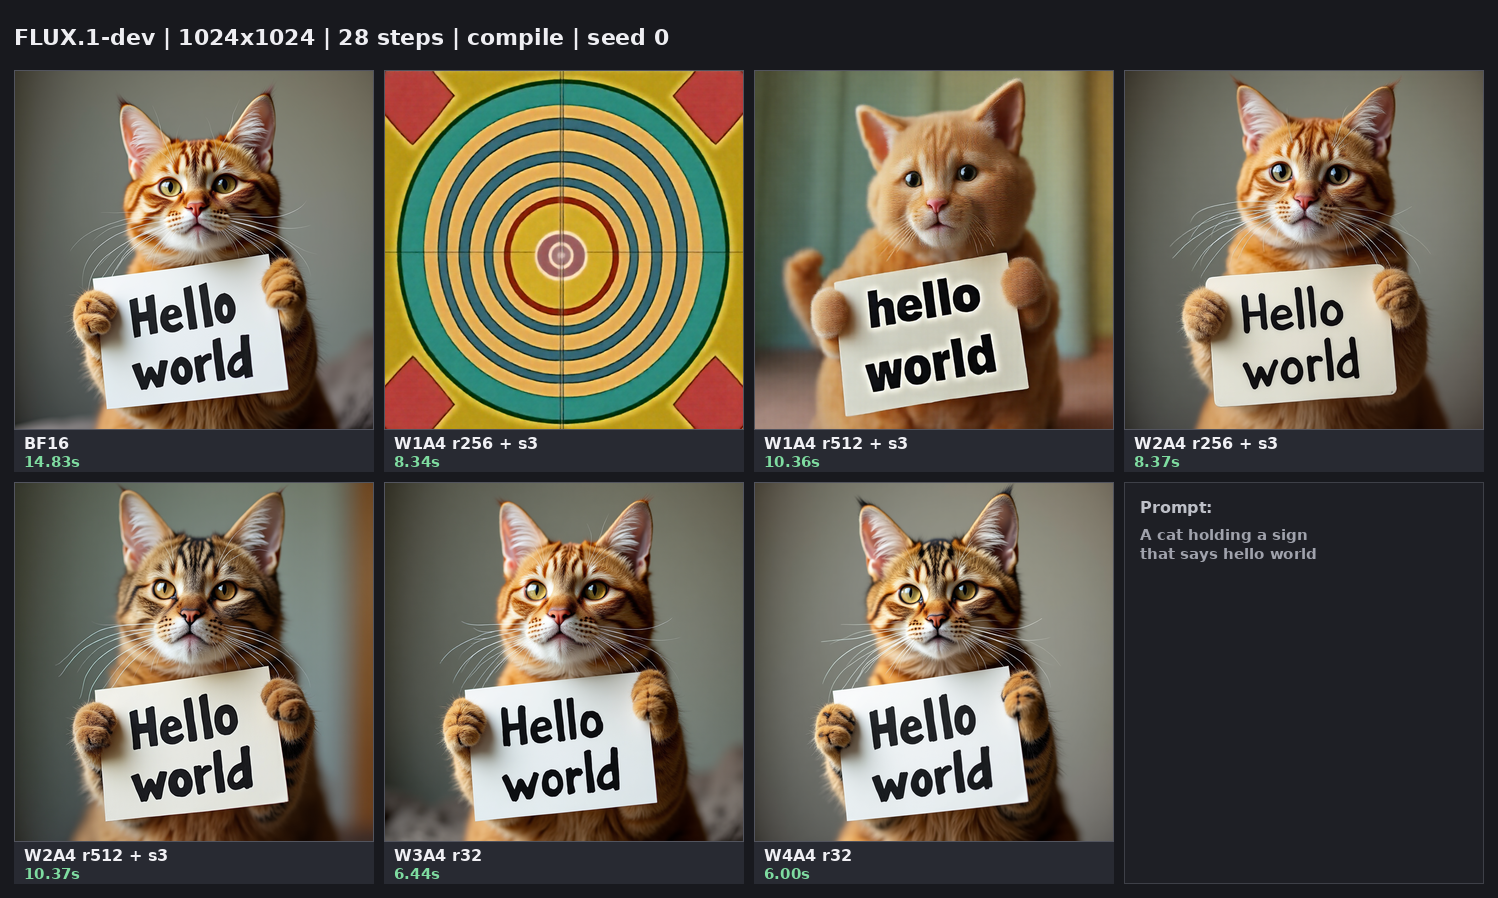
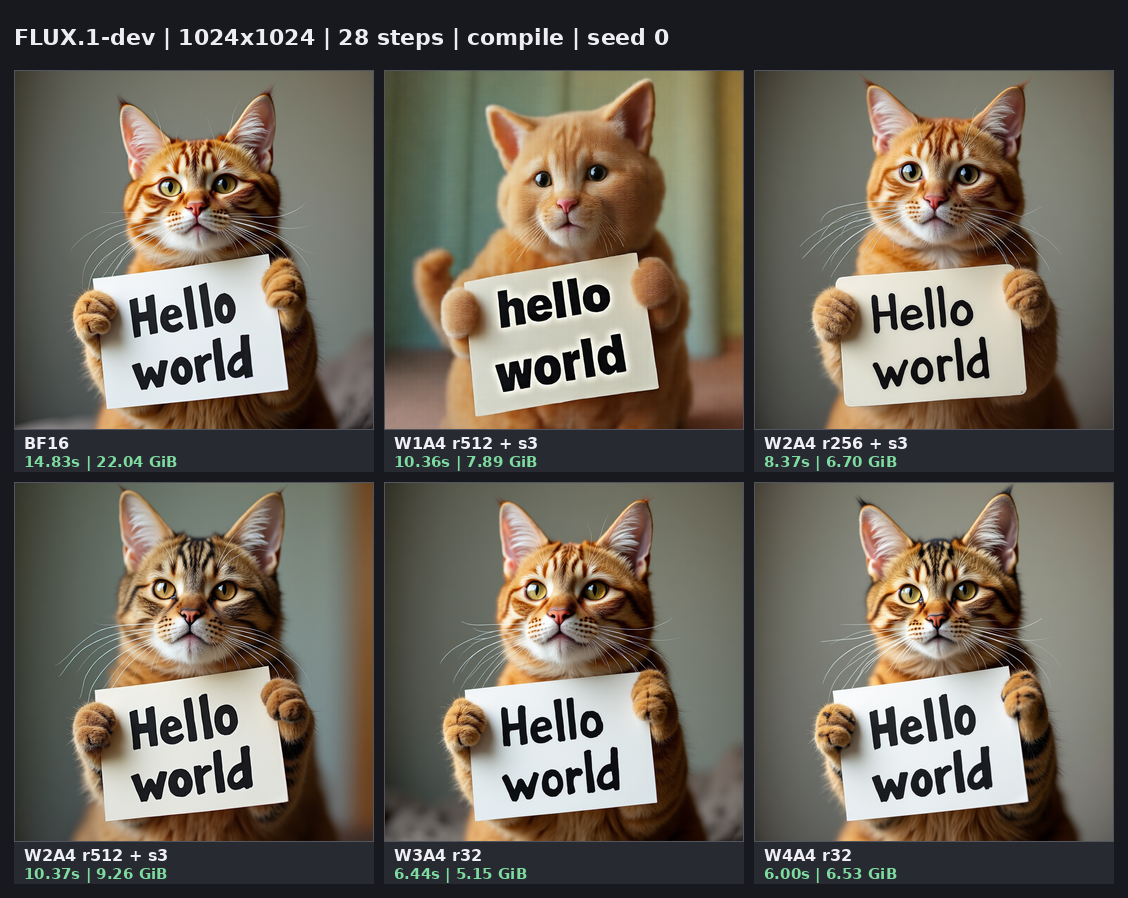
Refine packed A4 gallery and document weight memory

diff --git a/docs/user_guide/QUANTIZATION.md b/docs/user_guide/QUANTIZATION.md
@@ -1267,19 +1267,19 @@ Rank 512 is a quality-rescue option for W1/W2, not a free memory win. On FLUX.1-
 
 ### Compile performance
 
-Same-seed FLUX.1-dev, 1024², 28 steps, `--compile`; the table reports steady-state inference time (warmup excluded) and speedup over BF16 compile on one RTX PRO 5000 72GB. W1/W2 use three stages; W3/W4 use the standard two-stage codec.
+Same-seed FLUX.1-dev, 1024², 28 steps, `--compile`; the table reports steady-state inference time (warmup excluded), speedup over BF16 compile, and persistent transformer-weight memory on one RTX PRO 5000 72GB. W1/W2 use three stages; W3/W4 use the standard two-stage codec. Memory covers the 494 quantized block linears: packed code, FP8/BF16 scales, three-stage exponents, BF16 LoRA and smooth factors with the runtime's padded geometry; it excludes activations, the transient expansion workspace, and biases.
 
-| Configuration | Inference | Speedup vs BF16 compile |
-|---|---:|---:|
-| BF16 | 14.83s | 1.00x |
-| W1A4 r256, three stages | 8.34s | 1.78x |
-| W1A4 r512, three stages | 10.36s | 1.43x |
-| W2A4 r256, three stages | 8.37s | 1.77x |
-| W2A4 r512, three stages | 10.37s | 1.43x |
-| W3A4 r32 | 6.44s | 2.30x |
-| W4A4 (NVFP4) r32 | 6.00s | 2.47x |
+| Configuration | Persistent weight memory | Inference | Speedup vs BF16 compile |
+|---|---:|---:|---:|
+| BF16 | 22.04 GiB | 14.83s | 1.00x |
+| W1A4 r256, three stages | 5.33 GiB | 8.34s | 1.78x |
+| W1A4 r512, three stages | 7.89 GiB | 10.36s | 1.43x |
+| W2A4 r256, three stages | 6.70 GiB | 8.37s | 1.77x |
+| W2A4 r512, three stages | 9.26 GiB | 10.37s | 1.43x |
+| W3A4 r32 | 5.15 GiB | 6.44s | 2.30x |
+| W4A4 (NVFP4) r32 | 6.53 GiB | 6.00s | 2.47x |
 
-The gallery below shows the corresponding compiled outputs for the same prompt and seed. W1/W2 use three stages at rank 256/512; W3/W4 use rank 32. Labels repeat the steady-state compile latency from the table.
+The gallery below shows the valid compiled outputs for the same prompt and seed. W1/W2 use three stages at rank 512/256; W3/W4 use rank 32. Labels repeat the steady-state compile latency and persistent weight memory from the table. W1A4 r256 is omitted because its generated image is not semantically valid even though it executes and is included in the performance table.
 
 ![Packed A4 compile comparison](../assets/svdq_packed_a4_compile_gallery.png)
 
